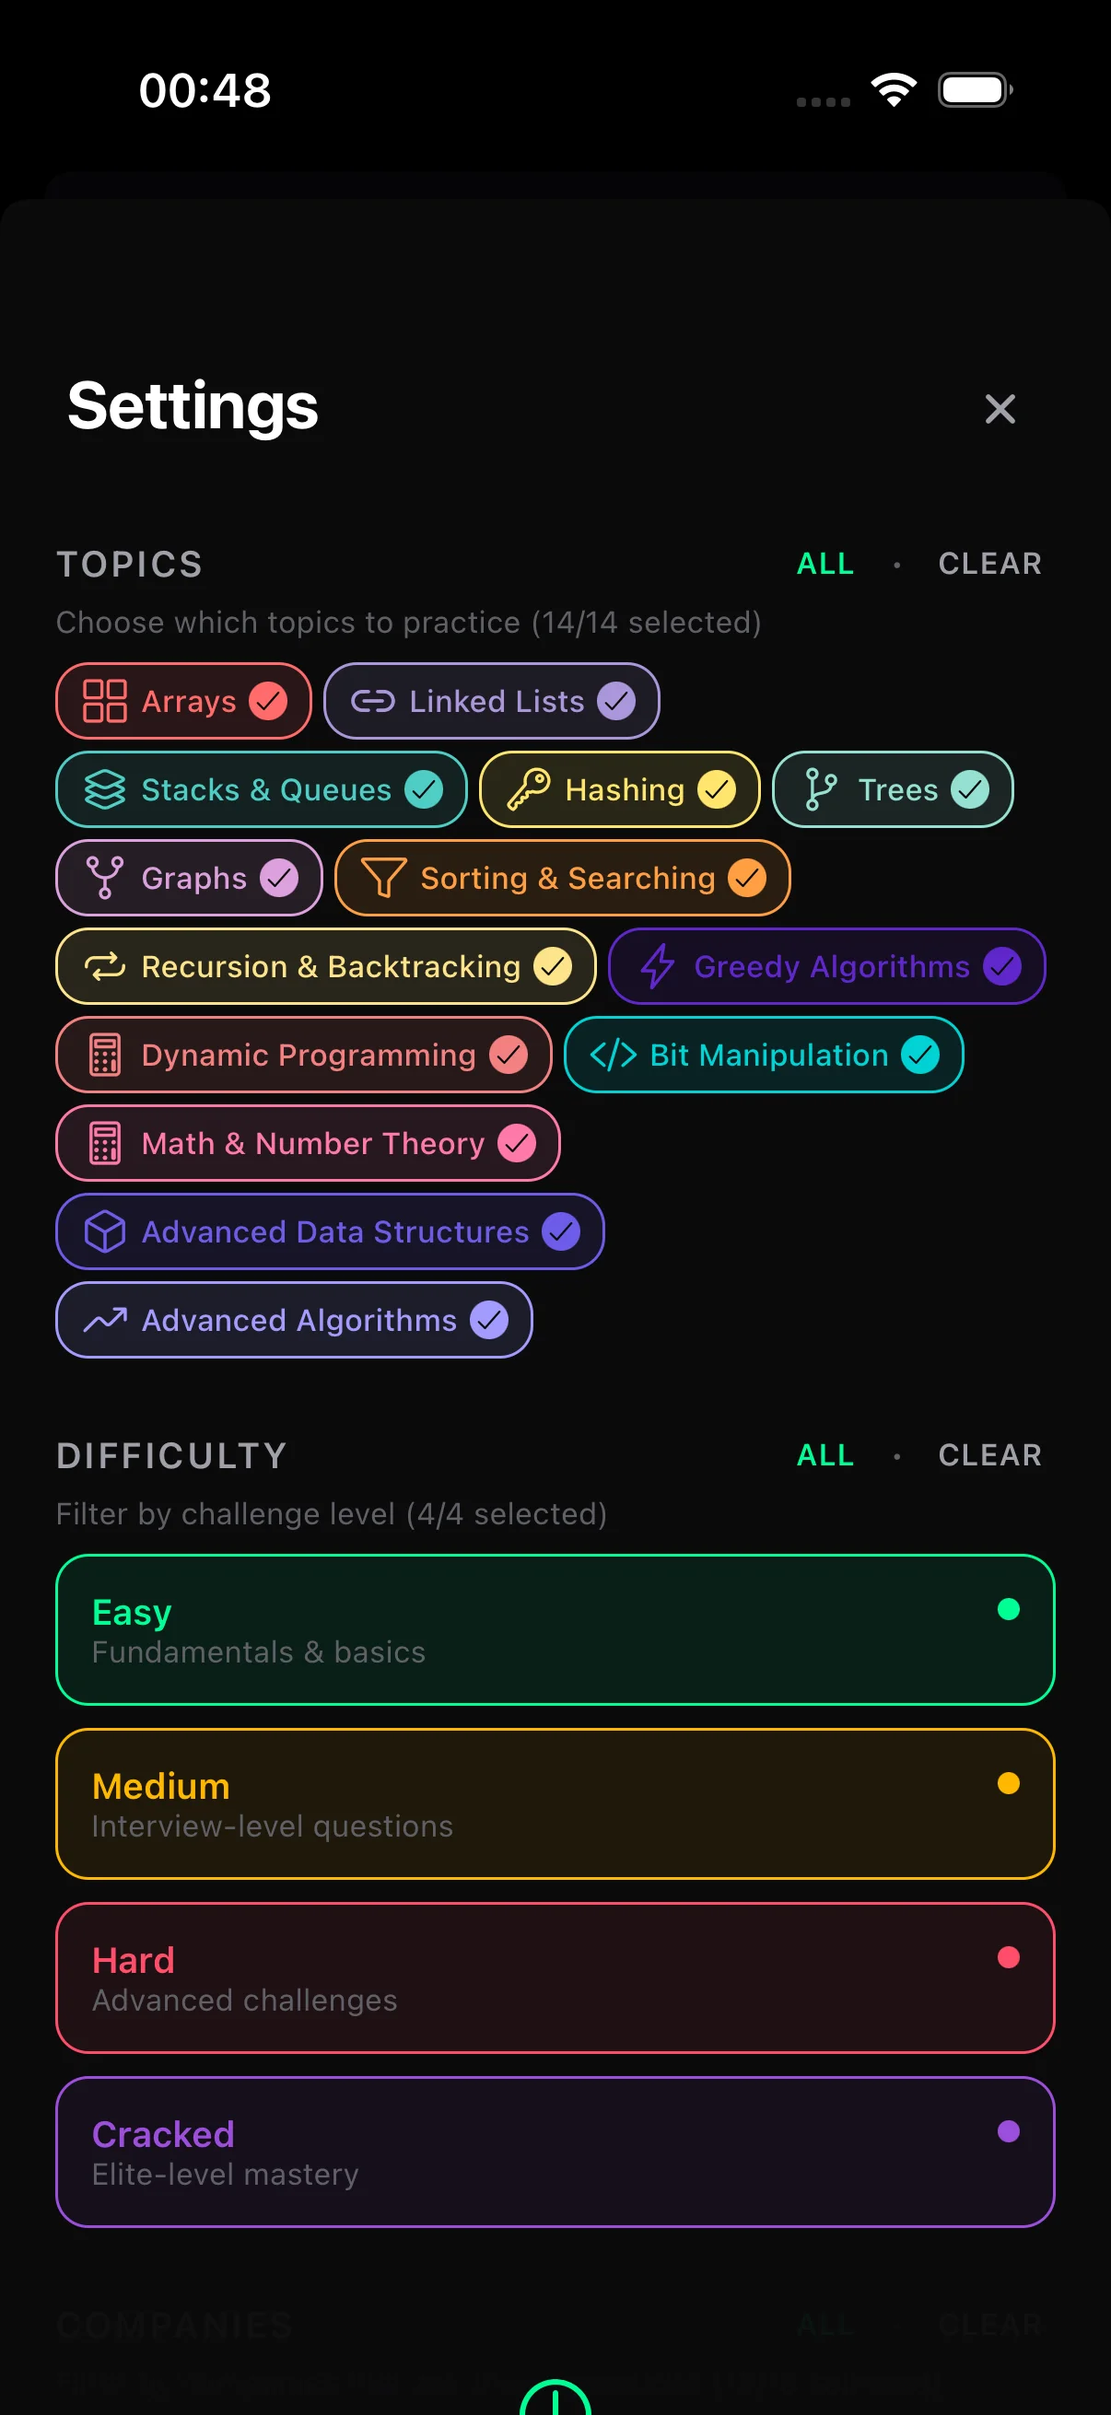
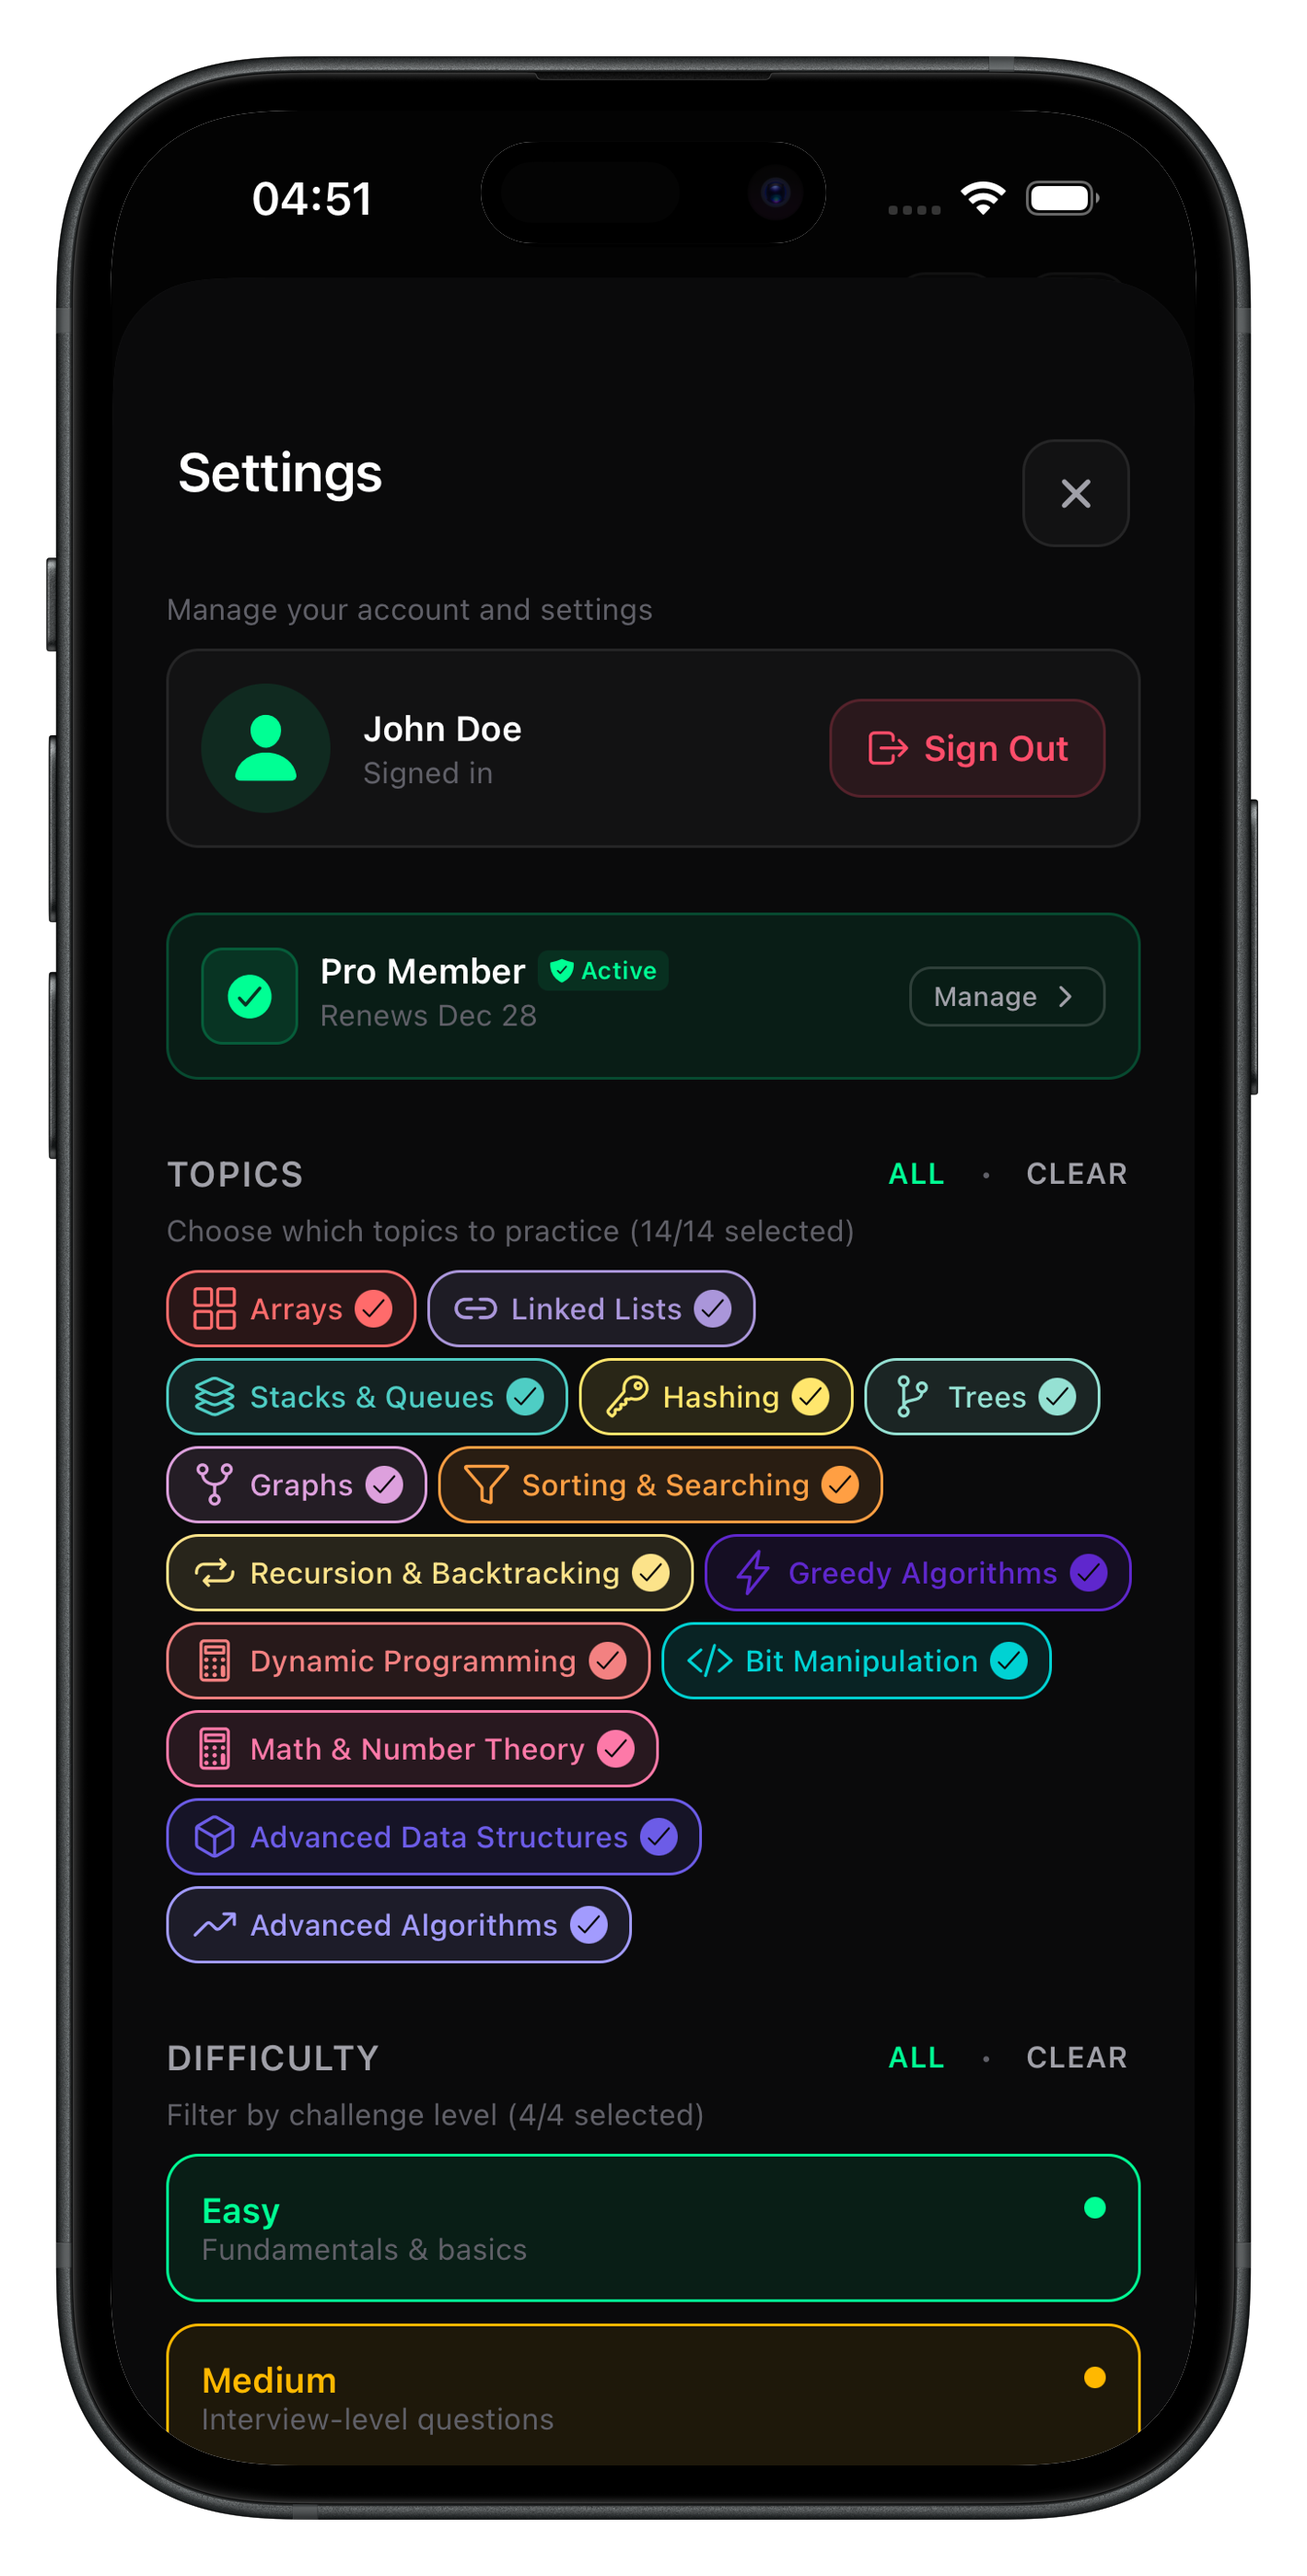
fix the mockup design

diff --git a/src/components/PhoneMockup.jsx b/src/components/PhoneMockup.jsx
@@ -27,69 +27,66 @@ function PhoneMockup() {
           <motion.div 
             className="mockup-phone left"
             initial={{ opacity: 0, x: -50 }}
-            whileInView={{ opacity: 0.7, x: 0 }}
+            whileInView={{ opacity: 1, x: 0 }}
             viewport={{ once: true }}
             transition={{ duration: 0.5, delay: 0.1 }}
           >
-            <div className="mockup-screen">
-              <picture>
-                <source 
-                  srcSet={`${import.meta.env.BASE_URL}screenshots/settings-page.webp`}
-                  type="image/webp"
-                />
-                <img 
-                  src={`${import.meta.env.BASE_URL}screenshots/settings-page.png`}
-                  alt="Settings"
-                  loading="lazy"
-                  decoding="async"
-                />
-              </picture>
-            </div>
+            <picture>
+              <source 
+                srcSet={`${import.meta.env.BASE_URL}screenshots/settings-page.webp`}
+                type="image/webp"
+              />
+              <img 
+                src={`${import.meta.env.BASE_URL}screenshots/settings-page.png`}
+                alt="Settings"
+                loading="lazy"
+                decoding="async"
+                className="mockup-image"
+              />
+            </picture>
           </motion.div>
           <motion.div 
             className="mockup-phone center"
             initial={{ opacity: 0, x: 50 }}
-            whileInView={{ opacity: 0.7, x: 0 }}
+            whileInView={{ opacity: 1, x: 0 }}
             viewport={{ once: true }}
             transition={{ duration: 0.5, delay: 0.1 }}
           >
-            <div className="mockup-screen">
-              <picture>
-                <source 
-                  srcSet={`${import.meta.env.BASE_URL}screenshots/stats-page.webp`}
-                  type="image/webp"
-                />
-                <img 
-                  src={`${import.meta.env.BASE_URL}screenshots/stats-page.png`}
-                  alt="Stats"
-                  loading="lazy"
-                  decoding="async"
-                />
-              </picture>
-            </div>
+            <picture>
+              <source 
+                srcSet={`${import.meta.env.BASE_URL}screenshots/stats-page.webp`}
+                type="image/webp"
+              />
+              <img 
+                src={`${import.meta.env.BASE_URL}screenshots/stats-page.png`}
+                alt="Stats"
+                loading="lazy"
+                decoding="async"
+                className="mockup-image"
+              />
+            </picture>
           </motion.div>
 
           <motion.div 
             className="mockup-phone right"
-            initial={{ opacity: 0, y: 30 }}
-            whileInView={{ opacity: 1, y: -20 }}
+            initial={{ opacity: 0, x: 50 }}
+            whileInView={{ opacity: 1, x: 0 }}
             viewport={{ once: true }}
-            transition={{ duration: 0.5, delay: 0.2 }}
+            transition={{ duration: 0.5, delay: 0.1 }}
           >
-            <div className="mockup-screen">
-              <picture>
-                <source 
-                  srcSet={`${import.meta.env.BASE_URL}screenshots/question-feed-page.webp`}
-                  type="image/webp"
-                />
-                <img 
-                  src={`${import.meta.env.BASE_URL}screenshots/question-feed-page.png`}
-                  alt="Question Feed"
-                  loading="lazy"
-                  decoding="async"
-                />
-              </picture>
-            </div>
+            <picture>
+              <source 
+                srcSet={`${import.meta.env.BASE_URL}screenshots/streak-screenshot.webp`}
+                type="image/webp"
+              />
+              <img 
+                src={`${import.meta.env.BASE_URL}screenshots/question-feed-page.png`}
+                alt="Question Feed"
+                loading="lazy"
+                decoding="async"
+                className="mockup-image"
+              />
+            </picture>
           </motion.div>
           
         

diff --git a/src/styles/index.css b/src/styles/index.css
@@ -470,52 +470,18 @@ section {
   transform-style: preserve-3d;
 }
 
-.phone-frame {
-  width: 240px;
-  height: 500px;
-  background: linear-gradient(145deg, #141418, #0a0a0c);
-  border-radius: 32px;
-  padding: 8px;
-  box-shadow: 
-    0 40px 80px -20px rgba(0, 0, 0, 0.6),
-    0 0 0 1px rgba(255, 255, 255, 0.05);
-  position: relative;
+.phone-wrapper picture {
+  display: block;
+  line-height: 0;
 }
 
-.phone-screen {
-  width: 100%;
-  height: 100%;
-  background: var(--bg-primary);
-  border-radius: 24px;
-  overflow: hidden;
-  position: relative;
-}
-
-.phone-screen img {
-  width: 100%;
-  height: 100%;
-  object-fit: cover;
-}
-
-.phone-notch {
-  position: absolute;
-  top: 0;
-  left: 50%;
-  transform: translateX(-50%);
-  width: 100px;
-  height: 24px;
-  background: #000;
-  border-radius: 0 0 16px 16px;
-  z-index: 10;
-}
-
-.phone-glow {
-  position: absolute;
-  inset: -40px;
-  background: radial-gradient(circle at 30% 30%, var(--accent-glow), transparent 60%);
-  filter: blur(60px);
-  z-index: -1;
-  opacity: 0.5;
+.phone-mockup-image {
+  display: block;
+  width: auto;
+  height: auto;
+  max-width: 400px;
+  max-height: 850px;
+  object-fit: contain;
 }
 
 /* ============================================
@@ -835,47 +801,37 @@ section {
 }
 
 .mockup-phone {
-  width: 220px;
-  height: 460px;
-  background: linear-gradient(145deg, #141418, #0a0a0c);
-  border-radius: 28px;
-  padding: 8px;
-  box-shadow: 
-    0 30px 60px -15px rgba(0, 0, 0, 0.6),
-    0 0 0 1px rgba(255, 255, 255, 0.05);
+  position: relative;
   transition: all 0.4s ease;
   transform-style: preserve-3d;
   flex-shrink: 0;
 }
 
+.mockup-phone picture {
+  display: block;
+  line-height: 0;
+}
+
+.mockup-image {
+  display: block;
+  width: auto;
+  height: auto;
+  max-width: 256px;
+  max-height: 544px;
+  object-fit: contain;
+}
+
 .mockup-phone.left {
   transform: rotateY(20deg) scale(0.85);
-  opacity: 0.5;
 }
 
 .mockup-phone.center {
-  transform: translateY(-12px) scale(1);
+  transform: scale(1);
   z-index: 10;
 }
 
 .mockup-phone.right {
   transform: rotateY(-20deg) scale(0.85);
-  opacity: 0.5;
-}
-
-.mockup-screen {
-  width: 100%;
-  height: 100%;
-  border-radius: 20px;
-  overflow: hidden;
-  background: #000;
-}
-
-.mockup-screen img {
-  width: 100%;
-  height: 100%;
-  object-fit: cover;
-  display: block;
 }
 
 
@@ -1214,9 +1170,9 @@ section {
     grid-template-columns: 1fr;
   }
   
-  .phone-frame {
-    width: 220px;
-    height: 460px;
+  .phone-mockup-image {
+    max-width: 300px;
+    max-height: 650px;
   }
   
 }

diff --git a/src/components/Hero.jsx b/src/components/Hero.jsx
@@ -108,25 +108,20 @@ function Hero() {
             transition={{ duration: 0.6, delay: 0.3 }}
           >
             <div className="phone-wrapper">
-              <div className="phone-glow"></div>
-              <div className="phone-frame">
-                <div className="phone-notch"></div>
-                <div className="phone-screen">
-                  <picture>
-                    <source 
-                      srcSet={`${import.meta.env.BASE_URL}screenshots/question-feed-page.webp`}
-                      type="image/webp"
-                    />
-                    <img 
-                      src={`${import.meta.env.BASE_URL}screenshots/question-feed-page.png`}
-                      alt="flashbits App - Question Feed"
-                      loading="eager"
-                      decoding="async"
-                      fetchpriority="high"
-                    />
-                  </picture>
-                </div>
-              </div>
+              <picture>
+                <source 
+                  srcSet={`${import.meta.env.BASE_URL}screenshots/question-feed-page.webp`}
+                  type="image/webp"
+                />
+                <img 
+                  src={`${import.meta.env.BASE_URL}screenshots/question-feed-page.png`}
+                  alt="flashbits App - Question Feed"
+                  loading="eager"
+                  decoding="async"
+                  fetchpriority="high"
+                  className="phone-mockup-image"
+                />
+              </picture>
             </div>
           </motion.div>
         </div>
